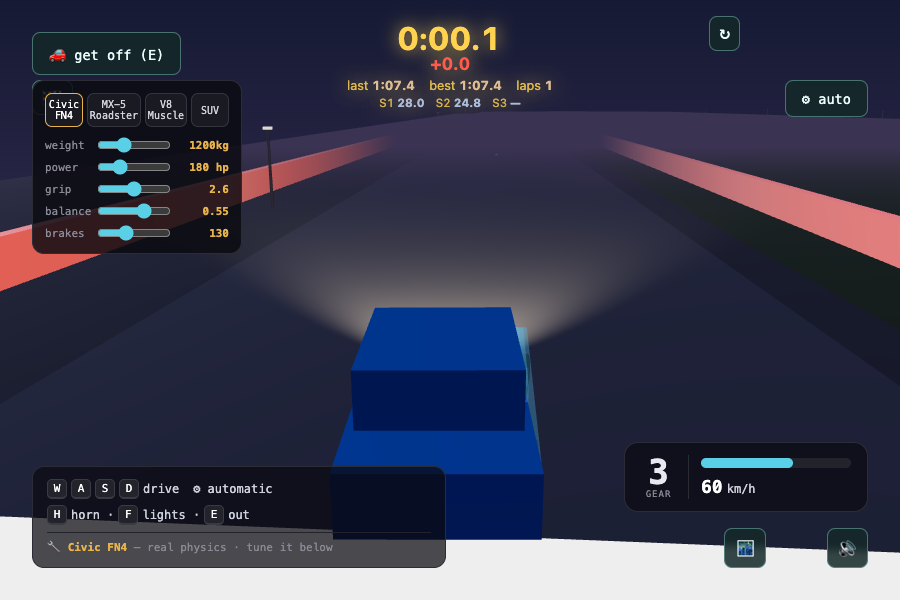
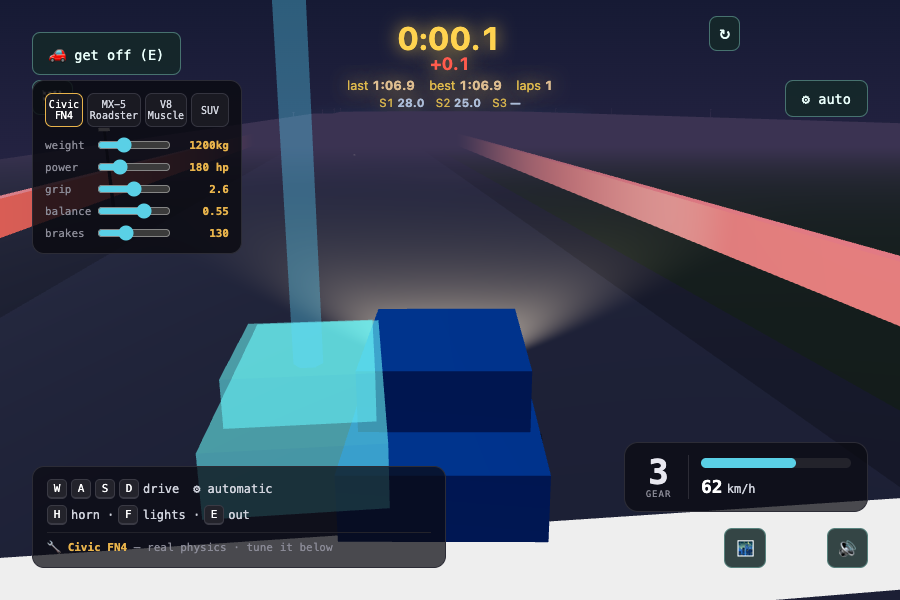
Make the ghost unmissable + fix delta at the line
The ghost was replaying correctly but was easy to miss: driving lap 2 at a
similar pace keeps it glued on top of your (opaque) car, hiding it. Now the
ghost draws ON TOP of everything (depthTest:false + renderOrder) so it shows
even when overlapping you or behind a wall, plus a tall beacon beam so you can
always spot it, and brighter/more opaque material. Verified via a real autopilot
lap: the cyan ghost + beacon are clearly visible on lap 2.

Also fix the live delta near the start/finish: the position-nearest search was
matching the ghost's end-of-lap sample (same place as the start), blowing the
delta to -67 at the line. Restrict the match to samples within 30s of the
current time → sane delta (+0.1 at the line).

diff --git a/src/App.jsx b/src/App.jsx
@@ -280,8 +280,12 @@ function LapTimer({ vehiclesRef, driving, active }) {
           if (e.className !== 'lap-delta hint') e.className = 'lap-delta hint'
         } else if (started.current) {
           let bd = Infinity
-          let bt = 0
+          let bt = t.current
           for (const s of ghost.current) {
+            // only match samples near the current time, so the start/finish
+            // (where lap-start and lap-end positions coincide) doesn't match
+            // the ghost's far end and blow the delta up
+            if (Math.abs(s.t - t.current) > 30) continue
             const dx = c.x - s.x
             const dz = c.z - s.z
             const d = dx * dx + dz * dz
@@ -300,14 +304,21 @@ function LapTimer({ vehiclesRef, driving, active }) {
   })
   // translucent ghost car (nose along +x, oriented via rotation.y = heading-π/2)
   return (
-    <group ref={gRef} visible={false}>
-      <mesh position={[0, 0.55, 0]}>
+    // renderOrder + depthTest:false → the ghost draws on top of everything, so
+    // it's visible even when it overlaps your car or sits behind a wall
+    <group ref={gRef} visible={false} renderOrder={999}>
+      <mesh position={[0, 0.55, 0]} renderOrder={999}>
         <boxGeometry args={[4.2, 0.7, 1.8]} />
-        <meshStandardMaterial color="#5ad8ff" transparent opacity={0.42} emissive="#5ad8ff" emissiveIntensity={0.9} depthWrite={false} toneMapped={false} />
+        <meshStandardMaterial color="#5ad8ff" transparent opacity={0.55} emissive="#5ad8ff" emissiveIntensity={1.2} depthWrite={false} depthTest={false} toneMapped={false} />
       </mesh>
-      <mesh position={[-0.3, 1.05, 0]}>
+      <mesh position={[-0.3, 1.05, 0]} renderOrder={999}>
         <boxGeometry args={[2, 0.55, 1.6]} />
-        <meshStandardMaterial color="#5ad8ff" transparent opacity={0.42} emissive="#5ad8ff" emissiveIntensity={0.9} depthWrite={false} toneMapped={false} />
+        <meshStandardMaterial color="#5ad8ff" transparent opacity={0.55} emissive="#5ad8ff" emissiveIntensity={1.2} depthWrite={false} depthTest={false} toneMapped={false} />
+      </mesh>
+      {/* tall beacon so you can always spot where the ghost is on the track */}
+      <mesh position={[0, 7, 0]} renderOrder={999}>
+        <cylinderGeometry args={[0.18, 0.18, 12, 6]} />
+        <meshBasicMaterial color="#5ad8ff" transparent opacity={0.35} depthWrite={false} depthTest={false} toneMapped={false} />
       </mesh>
     </group>
   )
